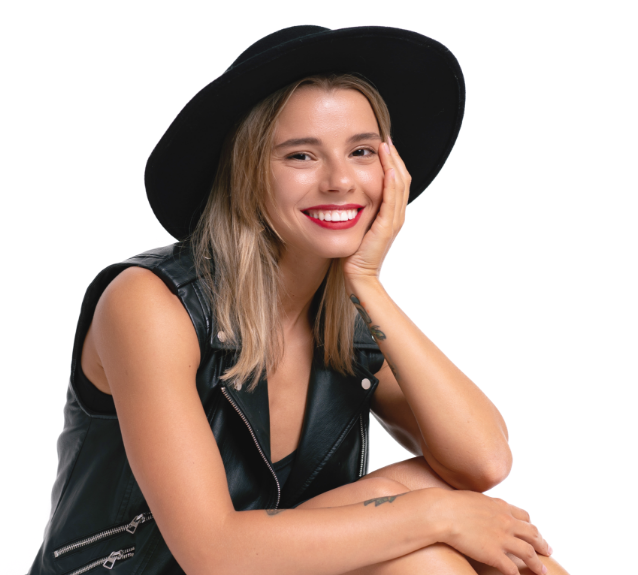
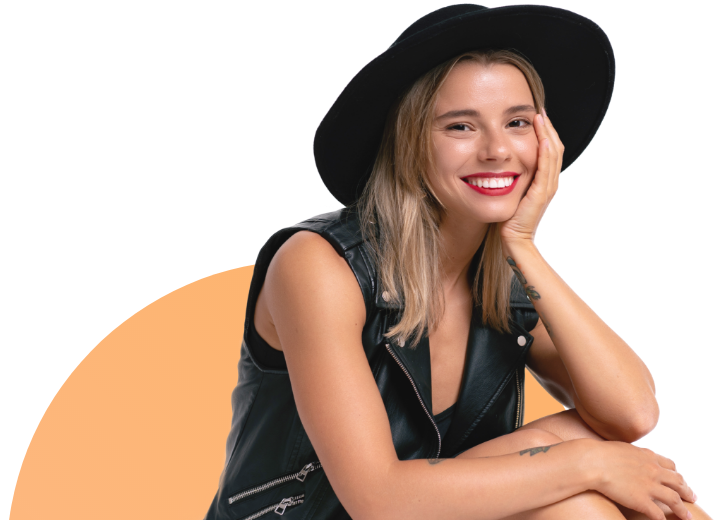
Update site

diff --git a/src/routes/index.svelte b/src/routes/index.svelte
@@ -12,7 +12,6 @@
 	import { tilesInfo } from '$lib/pseudo/tiles';
 
 	import { t } from 'svelte-i18n';
-	import Horizontal from '$lib/components/Horizontal/Horizontal.svelte';
 </script>
 
 <svelte:head>
@@ -21,10 +20,10 @@
 
 <main class="relative overflow-x-hidden">
 	<!-- Hero -->
-	<section class="pt-16 bg-gradient-to-b from-zinc-50 via-zinc-50 to-secondary/50">
+	<section class="pt-16 pb-32 bg-gradient-to-b from-zinc-50 via-zinc-50 to-secondary/50">
 		<div class="max-w-8xl pt-14 mx-auto">
 			<div class="px-8">
-				<h3 class="uppercase text-center mb-8">
+				<h3 class="text-center mb-8 text-xl">
 					{@html $t('home.hero.title')}
 				</h3>
 				<ul class="grid grid-cols-1 gap-16 mx-2 sm:mx-24 lg:grid-cols-3 place-content-center">
@@ -34,9 +33,6 @@
 						</li>
 					{/each}
 				</ul>
-				<div class="pt-20 flex">
-					<Horizontal />
-				</div>
 			</div>
 			<div />
 		</div>
@@ -44,10 +40,29 @@
 	<!-- Hero -->
 
 	<!-- Section 1 -->
+	<section class="" style="background-image: url(/bg-section-1.jpg); background-size: cover;">
+		<div class="bg-gradient-to-t from-primary/50 to-secondary/50">
+			<div class="max-w-7xl mx-auto lg:relative">
+				<div class="grid grid-cols-1 lg:grid-cols-2 gap-4 lg:px-16">
+					<div class="text-center lg:text-left lg:items-start flex flex-col justify-center items-center text-white px-8 py-14 space-y-1">
+						<h1 class="text-2xl font-normal">¡Hola, Stephanie Anormal!</h1>
+						<h1 class="text-2xl font-extralight">Ya tienes una idea de negocio pero,</h1>
+						<p class="text-2xl font-bold">¿sabes cómo ponerla en marcha?</p>
+						<span class="pt-4">
+							<Button text="Reservar cita" href="" variant="tertiary" />
+						</span>
+					</div>
+					<div class="flex justify-center">
+						<img src="/image-section-1.png" alt="" class="lg:absolute bottom-0 w-[500px]" />
+					</div>
+				</div>
+			</div>
+		</div>
+	</section>
 	<!-- /Section 1 -->
 
 	<!-- Section 2 -->
-	<section class="bg-gradient-to-b from-zinc-50 via-zinc-50 to-secondary/50 py-12">
+	<section class="bg-gradient-to-b from-zinc-50 via-zinc-50 to-secondary/50 py-32">
 		<div class="max-w-7xl mx-auto">
 			<div class="grid grid-cols-1 gap-8">
 				{#each adCardsInfo as item, i}
@@ -59,19 +74,21 @@
 	<!-- /Section 2 -->
 
 	<!-- Section 3 -->
-	<section class="bg-gradient-to-t from-primary/80 to-secondary/80">
-		<div class="max-w-7xl mx-auto lg:relative">
-			<div class="grid grid-cols-1 lg:grid-cols-2 gap-4 lg:px-16">
-				<div class="text-center lg:text-left lg:items-start flex flex-col justify-center items-center text-white px-8 py-14 space-y-1">
-					<h1 class="uppercase text-3xl font-extralight">¿Eres influencer?</h1>
-					<h1 class="uppercase text-3xl font-extralight">¡Puedes <b>ganar una web gratis!</b></h1>
-					<p class="text-xl font-extralight">Puedes ganar una web profesional, diseñada por un equipo experimentado <b>¡y 100% gratis!</b></p>
-					<span class="pt-4">
-						<Button text="Me interesa" href="" variant="tertiary" />
-					</span>
-				</div>
-				<div class="flex justify-end">
-					<img src="influencer.png" alt="" class="lg:absolute bottom-0 w-96" />
+	<section class="" style="background-image: url(bg-section-2.jpg); background-size: cover;">
+		<div class="bg-gradient-to-t from-primary/50 to-secondary/50">
+			<div class="max-w-7xl mx-auto lg:relative">
+				<div class="grid grid-cols-1 lg:grid-cols-2 gap-4 lg:px-16">
+					<div class="text-center lg:text-left lg:items-start flex flex-col justify-center items-center text-white px-8 py-14 space-y-1">
+						<h1 class="text-3xl font-extralight">¿Eres influencer?</h1>
+						<h1 class="text-3xl font-extralight">¡Puedes <b>ganar una web gratis!</b></h1>
+						<p class="text-xl font-extralight">Puedes ganar una web profesional, diseñada por un equipo experimentado <b>¡y 100% gratis!</b></p>
+						<span class="pt-4">
+							<Button text="Me interesa" href="" variant="tertiary" />
+						</span>
+					</div>
+					<div class="flex justify-center">
+						<img src="/influencer.png" alt="" class="lg:absolute bottom-0 w-[500px]" />
+					</div>
 				</div>
 			</div>
 		</div>
@@ -81,7 +98,7 @@
 	<!-- Section 4 -->
 	<section class="">
 		<div class="max-w-7xl mx-auto py-24">
-			<h3 class="uppercase text-2xl text-center">
+			<h3 class="text-2xl text-center">
 				<b class="font font-extrabold">Un blog</b> pensado para emprendedores
 			</h3>
 			<div class="grid grid-cols-1 lg:grid-cols-3 place-items-center gap-16 pt-12 px-8">
@@ -94,12 +111,12 @@
 	<!-- /Section 4 -->
 
 	<!-- Section 5 -->
-	<section class="bg-gradient-to-t from-black/80 to-zinc-600/50 text-white" style:background="url('client-support.jpg')">
-		<div class="max-w-4xl mx-auto">
-			<div class="flex flex-col text-center items-center justify-center space-y-4 p-12">
-				<span class="text-2xl font-semibold uppercase">
+	<section class=" text-white" style:background="url('/client-support.jpg')">
+		<div class="mx-auto bg-gradient-to-t from-black/80 to-zinc-600/50">
+			<div class="max-w-4xl mx-auto flex flex-col text-center items-center justify-center space-y-4 p-12">
+				<span class="text-2xl font-bold">
 					<h1>Tu cliente</h1>
-					<h1>Es nuestra prioridad</h1>
+					<h1>es nuestra prioridad</h1>
 				</span>
 				<p>
 					<b class="font-semibold">La Atención al Cliente es fundamental</b>, así que nos ocupamos de que tengas todas las herramientas para mantenera
@@ -115,10 +132,10 @@
 	<section class="bg-gradient-to-b from-zinc-50 via-zinc-50 to-secondary/50">
 		<div class="max-w-7xl mx-auto py-20 flex flex-col space-y-16">
 			<div class="text-center px-16">
-				<h1 class="uppercase text-2xl"><b>Tus redes sociales</b> son tu mejor tarjeta de presentación</h1>
+				<h1 class="text-2xl"><b>Tus redes sociales</b> son tu mejor tarjeta de presentación</h1>
 				<p>Atrae a tus clientes y mantenlos involucrados</p>
 			</div>
-			<div class="flex justify-center px-8">
+			<div class="flex justify-center">
 				<Slider />
 			</div>
 		</div>
@@ -126,13 +143,32 @@
 	<!-- /Section 6 -->
 
 	<!-- Section 7 -->
+	<section class="" style="background-image: url(/bg-section-7.jpg); background-size: cover;">
+		<div class="bg-gradient-to-t from-primary/50 to-secondary/50">
+			<div class="max-w-7xl mx-auto lg:relative">
+				<div class="grid grid-cols-1 lg:grid-cols-2 gap-4 lg:px-16">
+					<div class="text-center lg:text-left lg:items-start flex flex-col justify-center items-center text-white px-8 py-14 space-y-1">
+						<h1 class="text-2xl font-normal">¡Hola, Stephanie Anormal!</h1>
+						<h1 class="text-2xl font-extralight">Ya tienes una idea de negocio pero,</h1>
+						<p class="text-2xl font-bold">¿sabes cómo ponerla en marcha?</p>
+						<span class="pt-4">
+							<Button text="Reservar cita" href="" variant="tertiary" />
+						</span>
+					</div>
+					<div class="flex justify-center">
+						<img src="/image-section-7.png" alt="" class="lg:absolute bottom-0 w-[500px]" />
+					</div>
+				</div>
+			</div>
+		</div>
+	</section>
 	<!-- Section 7 -->
 
 	<!-- Section 8 -->
 	<section>
 		<div class="">
-			<h1 class="uppercase text-center text-xl pt-16 pb-4"><b class="font-bold">Akane Digital</b> te asegura...</h1>
-			<div class="grid grid-cols-2 lg:grid-cols-5 bg-black">
+			<h1 class="text-center text-xl pt-16 pb-4"><b class="font-bold">Akane Digital</b> te asegura...</h1>
+			<div class="grid grid-cols-2 lg:grid-cols-5" style="background-image: url('/bg-footer.jpg'); background-size: cover;">
 				{#each tilesInfo as item}
 					<Tile {...item} />
 				{/each}
@@ -140,19 +176,4 @@
 		</div>
 	</section>
 	<!-- /Section 8 -->
-
-	<!-- <footer class="bg-gradient-to-t from-primary to-secondary py-32" style="background-image: url('footer_bg.png'); background-size: cover; opacity: 90%;">
-		<div class="max-w-7xl mx-auto text-center text-white">
-			<h1 class="uppercase font-extrabold text-3xl pb-4">
-				Tu cliente <br /> es nuestra prioridad
-			</h1>
-			<p class="pt-2">
-				¿Tienes una idea de negocio pero <b class="font-bold">no sabes qué necesitas <br /> para salir al mercado</b> de una vez?
-			</p>
-			<div class="pt-8 flex justify-center space-x-12">
-				<button class="uppercase rounded-lg py-1 px-8 bg-white text-primary transition ease-in-out duration-200 hover:scale-110"> ¡Me interesa! </button>
-				<button class="uppercase rounded-lg py-1 px-8 bg-white text-primary"> Saber más </button>
-			</div>
-		</div>
-	</footer> -->
 </main>

diff --git a/src/lib/components/Navbar.svelte b/src/lib/components/Navbar.svelte
@@ -5,13 +5,17 @@
 
 	import { t, locale, locales, format } from 'svelte-i18n';
 
+	import { page } from '$app/stores';
+
+	$: pathname = $page.url.pathname;
+
 	const navigation = [
 		{ name: 'Inicio', href: '/' },
-		{ name: 'Tu Cuenta', href: '/' },
-		{ name: 'Servicios', href: '/' },
-		{ name: 'Cotización', href: '/' },
-		{ name: 'Blog', href: '/' },
-		{ name: 'Más', href: '/' }
+		{ name: 'Tu Cuenta', href: '/account' },
+		{ name: 'Servicios', href: '/services' },
+		{ name: 'Cotización', href: '/pricing' },
+		{ name: 'Blog', href: '/blog' },
+		{ name: 'Más', href: '/more' }
 	];
 
 	let menuOpen = false;
@@ -24,20 +28,21 @@
 
 <svelte:window bind:scrollY={y} />
 
-<nav class="bg-zinc-50/90 backdrop-blur-md uppercase {y > 60 && 'shadow-sm'}">
+<nav class="bg-zinc-50/90 backdrop-blur-md {y > 60 && 'shadow-sm'}">
 	<div class="max-w-7xl mx-auto px-2 sm:px-4 lg:px-8">
 		<div class="flex justify-between h-16">
 			<div class="flex px-2 lg:px-0">
-				<div class="flex-shrink-0 flex items-center">
+				<div class="flex-shrink-0 flex items-center mr-8">
 					<img class="block lg:hidden h-8 w-auto" src="logo.svg" alt="Akane" />
 					<img class="hidden lg:block h-8 w-auto" src="logo.svg" alt="Akane" />
 				</div>
 				<div class="hidden lg:ml-6 lg:flex lg:space-x-8">
-					<!-- Current: "border-indigo-500 text-gray-900", Default: "border-transparent text-gray-500 hover:border-gray-300 hover:text-gray-700" -->
 					{#each navigation as { name, href }}
 						<a
 							{href}
-							class="border-transparent text-gray-500 hover:border-secondary hover:text-gray-700 inline-flex items-center px-1 pt-1 border-b-2 text-sm font-normal transition ease-in-out duration-150"
+							class="{pathname == href
+								? 'text-primary border-primary/70 font-semibold'
+								: 'text-gray-500 font-normal'} border-transparent hover:border-primary/70 inline-flex items-center pt-1 border-b-[3px] text-sm transition ease-in-out duration-150"
 						>
 							{name}
 						</a>

diff --git a/src/lib/components/AdCard.svelte b/src/lib/components/AdCard.svelte
@@ -10,7 +10,7 @@
 {#if variant == 'primary'}
 	<div class="flex flex-col-reverse lg:flex-row justify-between items-center px-4 lg:px-0 space-y-6 lg:space-y-0">
 		<div class="basis-1/2 text-center lg:text-right flex flex-col space-y-4 lg:pr-16">
-			<h1 class="uppercase font-black text-2xl inline">{title}</h1>
+			<h1 class="font-black text-2xl inline">{title}</h1>
 			<p class="mx-8 lg:mx-0">{text}</p>
 			<div class="flex flex-col lg:flex-row space-y-4 lg:space-y-0 lg:space-x-8 lg:justify-end py-8 px-16 lg:px-0">
 				<Button text="Ver Portafolio" variant="secondary" />
@@ -29,7 +29,7 @@
 			<img src={image.src} class="shrink-0 w-96" alt={image.alt} />
 		</div>
 		<div class="basis-1/2 text-center lg:text-left flex flex-col space-y-4 lg:pl-16">
-			<h1 class="uppercase font-black text-2xl">{title}</h1>
+			<h1 class="font-black text-2xl">{title}</h1>
 			<p class="mx-8 lg:mx-0">{text}</p>
 			<div class="flex flex-col lg:flex-row space-y-4 lg:space-y-0 lg:space-x-8 lg:justify-start py-8 px-16 lg:px-0">
 				<Button text="Ver Portafolio" variant="secondary" />

diff --git a/src/lib/components/Slider.svelte b/src/lib/components/Slider.svelte
@@ -1,30 +1,31 @@
 <script>
 	let images = [
 		{
-			src: 'https://api.lorem.space/image/furniture?w=250&h=180&hash=8B7BCDC2',
+			src: '/promo/promo-slide-1.png',
 			alt: ''
 		},
 		{
-			src: 'https://api.lorem.space/image/furniture?w=250&h=180&hash=500B67FB',
+			src: '/promo/promo-slide-2.png',
 			alt: ''
 		},
 		{
-			src: 'https://api.lorem.space/image/furniture?w=250&h=180&hash=A89D0DE6',
+			src: '/promo/promo-slide-3.png',
 			alt: ''
 		}
 	];
 </script>
 
-<div class="example">
-	<ul class="flex overflow-x-auto gap-6 snap-x snap-center snap-mandatory">
+<div class="">
+	<ul class="flex overflow-x-auto gap-6 snap-x snap-center snap-mandatory example">
 		{#each images as { src, alt }}
-			<li class="shrink-0 snap-center">
-				<img {src} {alt} class="rounded-md" />
+			<li class="shrink-0 snap-center flex">
+				<span class="flex justify-center items-center">
+					<img {src} {alt} class="rounded-md w-96 " />
+				</span>
 			</li>
 		{/each}
 	</ul>
 </div>
-
 
 <style lang="postcss">
 	.example::-webkit-scrollbar {

diff --git a/src/lib/components/PostSlider.svelte b/src/lib/components/PostSlider.svelte
@@ -1,27 +1,28 @@
 <script>
-	import {fade} from 'svelte/transition'
-	
+	import { fade } from 'svelte/transition';
+
 	const carouselPhotos = [
 		'https://picsum.photos/300/200?random=1',
 		'https://picsum.photos/300/200?random=2',
 		'https://picsum.photos/300/200?random=3'
-	]
-	
-	let index = 0
-	
+	];
+
+	let index = 0;
+
 	const next = () => {
-		index = (index + 1) % carouselPhotos.length
-	}
+		index = (index + 1) % carouselPhotos.length;
+	};
 </script>
 
-<style>
-	img, button {
-		position: absolute;
-	}
-</style>
-
 {#each [carouselPhotos[index]] as src (index)}
-	<img transition:fade {src} alt="" />	
+	<img transition:fade {src} alt="" />
 {/each}
 
 <button on:click={next}>Next!</button>
+
+<style>
+	img,
+	button {
+		position: absolute;
+	}
+</style>

diff --git a/src/lib/components/Button.svelte b/src/lib/components/Button.svelte
@@ -5,10 +5,10 @@
 	export let target = '';
 
 	let variants = {
-		base: 'uppercase py-2 px-8 rounded-xl text-sm inline-block font-medium',
-		primary: 'bg-primary text-white shadow-lg shadow-primary/40',
+		base: 'uppercase py-3 px-10 rounded-xl text-sm inline-block font-medium',
+		primary: 'bg-primary text-white',
 		secondary: 'bg-secondary text-primary',
-		tertiary: 'bg-white text-primary shadow-lg shadow-primary/40'
+		tertiary: 'bg-white text-primary'
 	};
 </script>
 

diff --git a/src/lib/components/Horizontal/Horizontal.svelte b/src/lib/components/Horizontal/Horizontal.svelte
@@ -41,7 +41,7 @@
 </script>
 
 <div id="carousel-container" class="w-full overflow-x-hidden flex flex-col gap-4">
-	<div id="carousel-images" class="flex justify-center items-center flex-nowrap gap-56">
+	<div id="carousel-images" class="flex justify-center items-center flex-nowrap">
 		{#each images as { id, src, alt, text } (id)}
 			<div animate:flip={{ duration: 350 }} class="flex justify-center items-center w-full">
 				<img {id} {src} {alt} />

diff --git a/src/routes/account.svelte b/src/routes/account.svelte
@@ -22,7 +22,7 @@
 	}
 </script>
 
-<main class="bg-slate-800 flex flex-col justify-start items-center gap-4">
+<main class="bg-slate-800 flex flex-col justify-start items-center gap-4 pt-24">
 	<div class="text-white grid place-items-center">
 		{slug}
 	</div>
